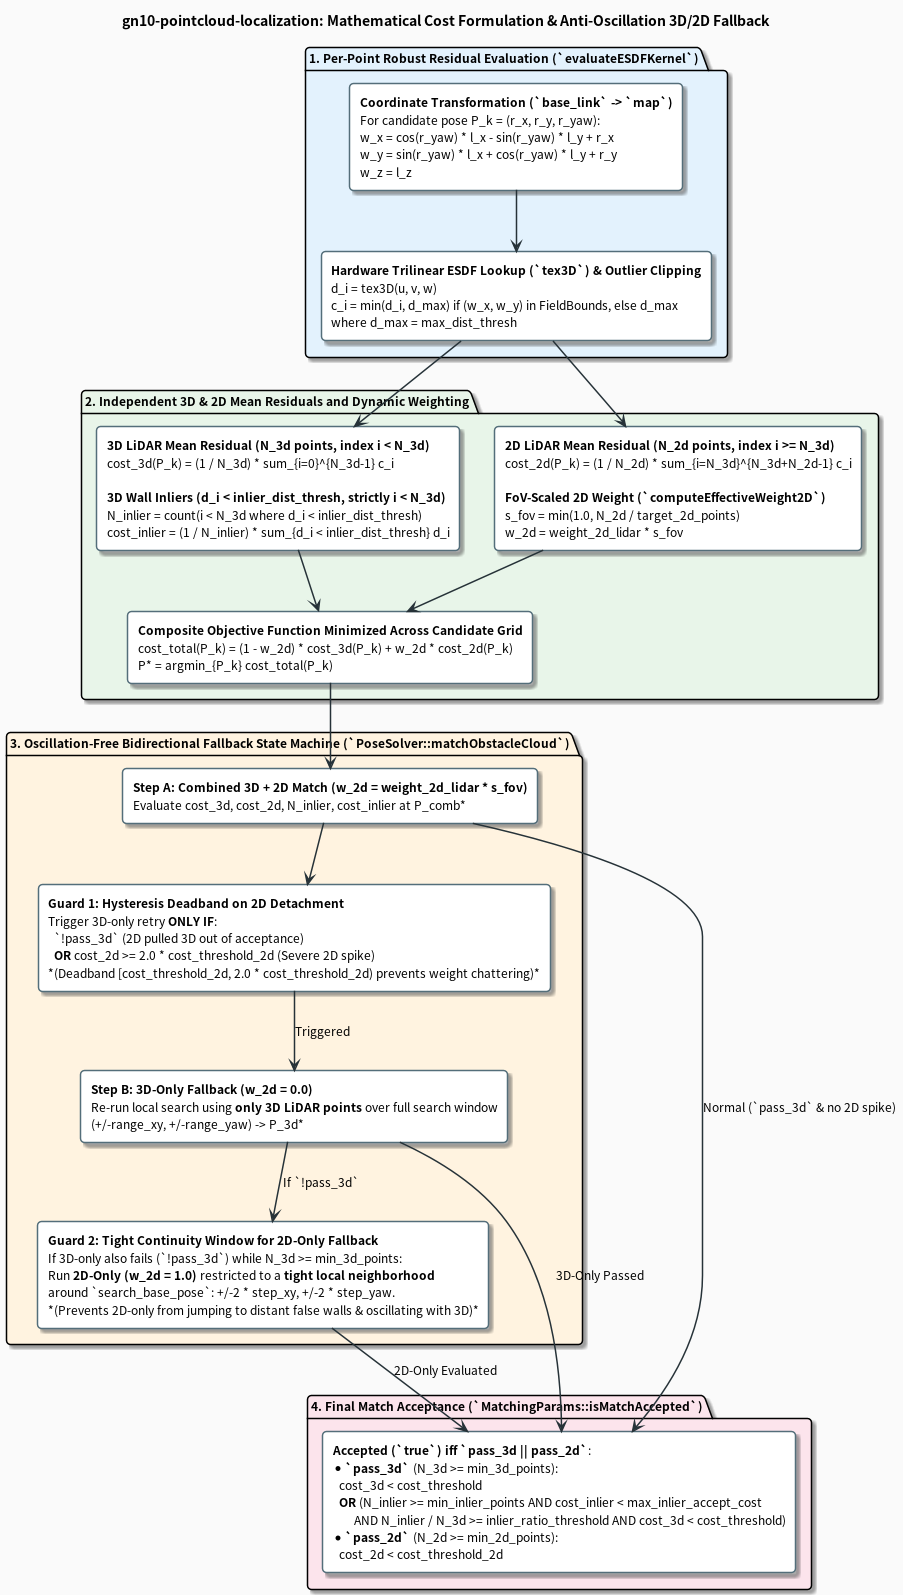
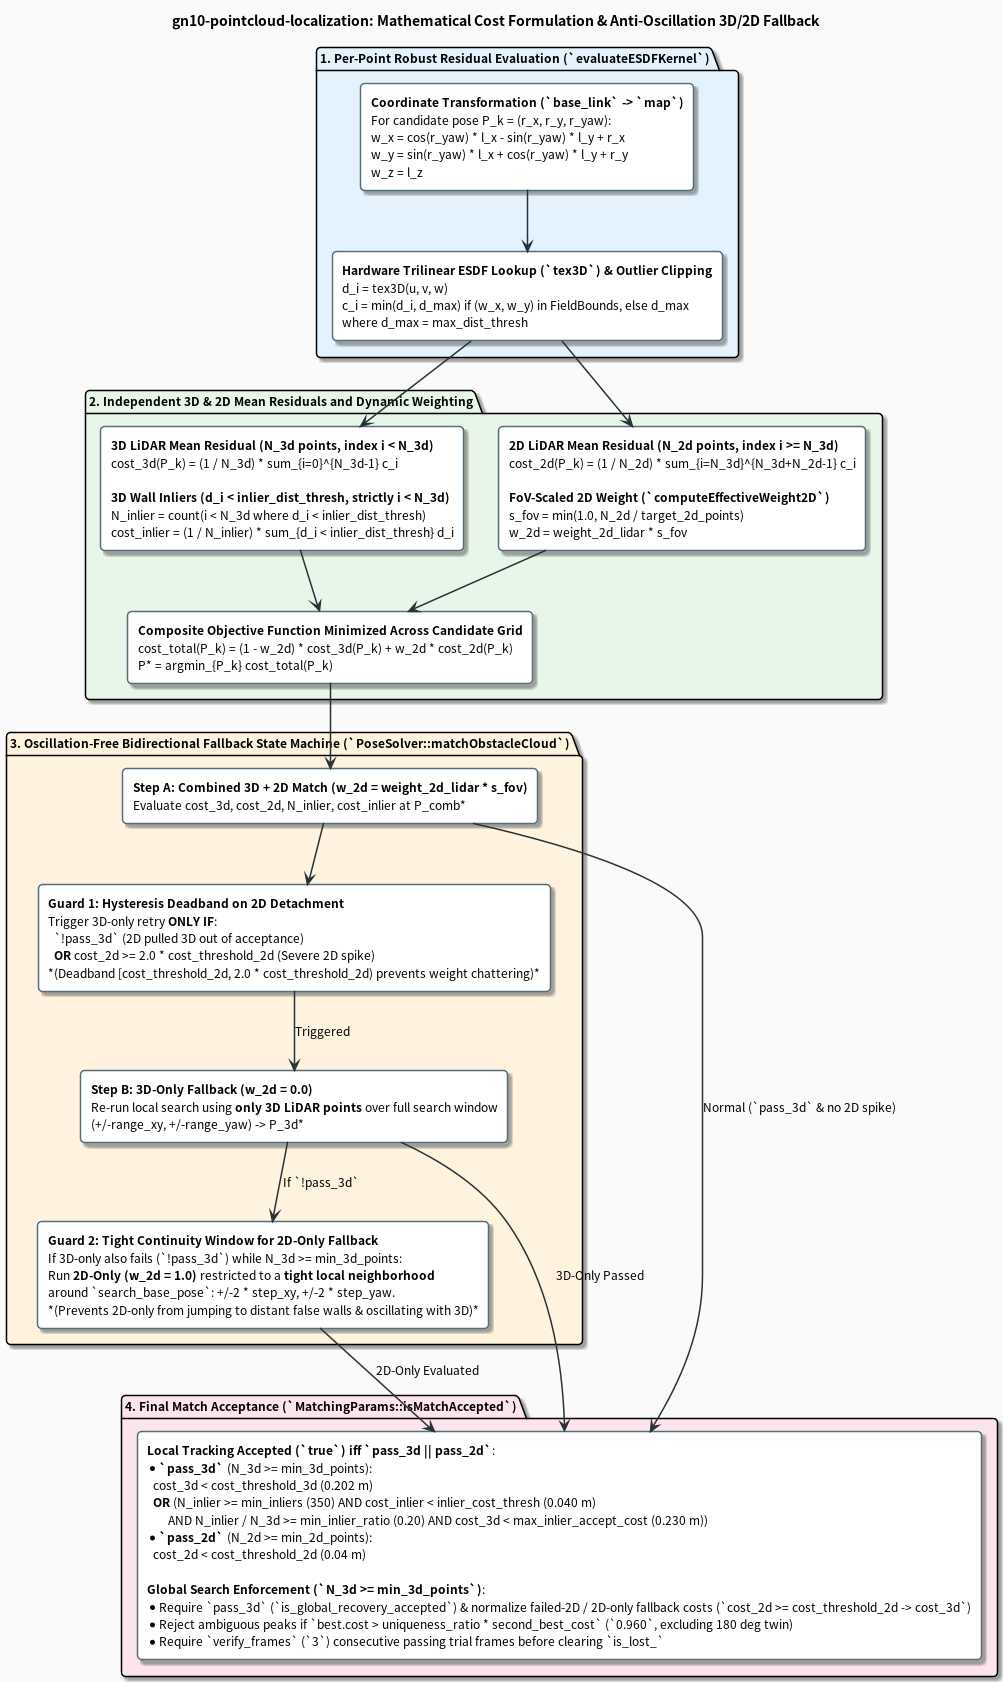
docs(global_search): update README and PlantUML diagrams for robust recovery

diff --git a/README_jp.md b/README_jp.md
@@ -38,6 +38,7 @@ https://github.com/user-attachments/assets/c095bf62-cfac-403c-aa1b-679e0ed4c053
                                                          [TF 配信 (map -> base_link)]                      [TF・推定姿勢の配信を即時停止]
                                                          [/platform_constraint & /dynamic_cloud]           [localization_success = false]
                                                          [localization_success = true]                     [25フレーム連続失敗でGlobalSearch発動]
+                                                                                                           [(IMU Yaw絞り込み + Uniqueness + Trial検証)]
 ```
 
 ## 3. ビルド環境・依存関係
@@ -114,13 +115,13 @@ ros2 launch gn10_pointcloud_localization localization.launch.py use_sim_time:=tr
 | `matching_params.fine_refine` / `levels` | `true` / `2` | 2 段の $5 \times 5 \times 5$ サブボクセル精密探索（`0.05 m` $\to$ `0.002 m`）。 |
 | `matching_params.max_dist_thresh` | `0.25` | マッチング評価時の点ごとの ESDF 残差打ち切り距離 [m]。 |
 | `matching_params.dynamic_dist_thresh` | `0.15` | `/dynamic_cloud` として抽出するマップ表面からの距離閾値 [m]。 |
-| `matching_params.cost_threshold_3d` | `0.23` | 3D LiDAR 独立残差合格しきい値 [m] ($C_{\text{3D}} < 0.23\text{ m}$)。 |
+| `matching_params.cost_threshold_3d` | `0.202` | 3D LiDAR 独立残差合格しきい値 [m] ($C_{\text{3D}} < 0.202\text{ m}$)。 |
 | `matching_params.cost_threshold_2d` | `0.04` | 2D LiDAR 独立残差合格しきい値 [m] ($C_{\text{2D}} < 0.04\text{ m}$、ヒステリシス切り離しは $2\times = 0.08\text{ m}$)。 |
 | `matching_params.inlier_dist_thresh` | `0.08` | マップ壁面から `0.08 m` (8 cm) 以内の点をインライアと判定。 |
-| `matching_params.min_inliers` | `400` | インライア合格判定に必要な最小インライア点数 ($N_{\text{inlier}} \ge 400$)。 |
-| `matching_params.inlier_cost_thresh` | `0.035` | インライア合格判定に必要な平均インライア残差上限 [m] ($C_{\text{inlier}} < 0.035\text{ m}$)。 |
-| `matching_params.min_inlier_ratio` | `0.28` | 3D 障害物点に対する最小インライア比率 ($N_{\text{inlier}} / N_{\text{3D}} \ge 0.28$)。 |
-| `matching_params.max_inlier_accept_cost` | `0.25` | インライア合格判定時の 3D 残差コスト上限ガード [m] ($C_{\text{3D}} < 0.25\text{ m}$)。 |
+| `matching_params.min_inliers` | `350` | インライア合格判定に必要な最小インライア点数 ($N_{\text{inlier}} \ge 350$)。 |
+| `matching_params.inlier_cost_thresh` | `0.040` | インライア合格判定に必要な平均インライア残差上限 [m] ($C_{\text{inlier}} < 0.040\text{ m}$)。 |
+| `matching_params.min_inlier_ratio` | `0.20` | 3D 障害物点に対する最小インライア比率 ($N_{\text{inlier}} / N_{\text{3D}} \ge 0.20$)。 |
+| `matching_params.max_inlier_accept_cost` | `0.230` | インライア合格判定時の 3D 残差コスト上限ガード [m] ($C_{\text{3D}} < 0.230\text{ m}$)。 |
 | `matching_params.weight_2d_lidar` | `0.40` | Combined モード時の 2D LiDAR 独立残差項の基本重み係数 $w_{\text{2D,base}}$。 |
 | `matching_params.min_2d_points` / `target_2d_points` | `30` / `200` | 2D 残差有効化の最小点数と、100% 視野角重み付けとなる基準 2D 点数。 |
 | `matching_params.min_3d_points` | `50` | 最小 3D 障害物点数（これ未満の場合はフル探索窓の 2D 単独モード $w_{\text{2D}} = 1.0$ へ移行）。 |
@@ -128,7 +129,11 @@ ros2 launch gn10_pointcloud_localization localization.launch.py use_sim_time:=tr
 | `velocity_estimation.enable` | `true` | EMA 平滑化（$\alpha = 0.6$）つき並進速度推定と等速外挿の有効化（`window_sec: 0.20`, `min_dt_sec: 0.15`, `max_dt_sec: 0.50`, `max_linear_velocity: 4.0`）。 |
 | `lidar_2d.enable` / `deskew` | `true` / `true` | Lakibeam 2D LiDAR の有効化と、回転・並進歪み補正および 3D 基準時刻への同期補正。 |
 | `lidar_2d.time_offset_sec` | `0.0` | 2D LiDAR タイムスタンプの静的オフセット [s]。 |
+| `global_search.range_yaw_diff` | `3.1415` | 方位事前情報がない場合のグローバル Yaw 全域探索半幅 [rad]。 |
+| `global_search.recovery_yaw_diff` | `0.40` | IMU 方位事前情報（最終マッチ後 `10.0 s` 以内または初期姿勢事前値）が有効な間の絞り込み Yaw 探索半幅 [rad]（初回失敗時は `range_yaw_diff` へ自動フォールバック）。 |
 | `global_search.top_k_candidates` | `4` | グローバル復帰探索時にNMSで抽出して精密化する上位候補数。 |
+| `global_search.uniqueness_ratio` | `0.960` | 曖昧なグローバル一致を棄却する Top-1/Top-2 コスト比上限 (`best_cost <= uniqueness_ratio * second_best_cost`、$180^\circ$ 点対称ツインを除外、`1.0` で無効化)。 |
+| `global_search.verify_frames` | `3` | グローバル復帰を確定して TF/推定姿勢の出力を再開する前に、トライアル状態で要求する連続ローカル検証フレーム数。 |
 | `global_search.lost_count_thresh` | `25` | グローバル全域探索へ移行する連続失敗フレーム数。 |
 
 ## 6. 設計図一覧

diff --git a/README.md b/README.md
@@ -38,6 +38,7 @@ https://github.com/user-attachments/assets/c095bf62-cfac-403c-aa1b-679e0ed4c053
                                                          [Publish TF (map -> base_link)]                       [Halt TF & Pose Output Immediately]
                                                          [/platform_constraint & /dynamic_cloud]                [localization_success = false]
                                                          [localization_success = true]                          [Trigger GlobalSearch after 25 frames]
+                                                                                                                [(IMU Yaw Window + Uniqueness + Trial Verify)]
 ```
 
 ## 3. Build Environment & Dependencies
@@ -114,13 +115,13 @@ Common parameters are defined in [`config/common_params.yaml`](./config/common_p
 | `matching_params.fine_refine` / `levels` | `true` / `2` | 2-stage $5 \times 5 \times 5$ sub-voxel refinement (`0.05 m` $\to$ `0.002 m`). |
 | `matching_params.max_dist_thresh` | `0.25` | Per-point Huber/L1 residual distance clipping ceiling [m]. |
 | `matching_params.dynamic_dist_thresh` | `0.15` | Distance threshold [m] above which points are extracted as `/dynamic_cloud`. |
-| `matching_params.cost_threshold_3d` | `0.23` | Independent 3D LiDAR mean residual acceptance threshold [m] ($C_{\text{3D}} < 0.23\text{ m}$). |
+| `matching_params.cost_threshold_3d` | `0.202` | Independent 3D LiDAR mean residual acceptance threshold [m] ($C_{\text{3D}} < 0.202\text{ m}$). |
 | `matching_params.cost_threshold_2d` | `0.04` | Independent 2D LiDAR mean residual acceptance threshold [m] ($C_{\text{2D}} < 0.04\text{ m}$, hysteresis detachment at $2\times = 0.08\text{ m}$). |
 | `matching_params.inlier_dist_thresh` | `0.08` | Distance threshold [m] to classify an obstacle point as a wall inlier. |
-| `matching_params.min_inliers` | `400` | Minimum inlier point count for inlier-based acceptance ($N_{\text{inlier}} \ge 400$). |
-| `matching_params.inlier_cost_thresh` | `0.035` | Maximum mean residual of inlier points for inlier acceptance [m] ($C_{\text{inlier}} < 0.035\text{ m}$). |
-| `matching_params.min_inlier_ratio` | `0.28` | Minimum inlier ratio against 3D obstacle points ($N_{\text{inlier}} / N_{\text{3D}} \ge 0.28$). |
-| `matching_params.max_inlier_accept_cost` | `0.25` | 3D residual cost upper bound guard for inlier acceptance [m] ($C_{\text{3D}} < 0.25\text{ m}$). |
+| `matching_params.min_inliers` | `350` | Minimum inlier point count for inlier-based acceptance ($N_{\text{inlier}} \ge 350$). |
+| `matching_params.inlier_cost_thresh` | `0.040` | Maximum mean residual of inlier points for inlier acceptance [m] ($C_{\text{inlier}} < 0.040\text{ m}$). |
+| `matching_params.min_inlier_ratio` | `0.20` | Minimum inlier ratio against 3D obstacle points ($N_{\text{inlier}} / N_{\text{3D}} \ge 0.20$). |
+| `matching_params.max_inlier_accept_cost` | `0.230` | 3D residual cost upper bound guard for inlier acceptance [m] ($C_{\text{3D}} < 0.230\text{ m}$). |
 | `matching_params.weight_2d_lidar` | `0.40` | Base weight $w_{\text{2D,base}}$ of 2D LiDAR residual term in Combined mode. |
 | `matching_params.min_2d_points` / `target_2d_points` | `30` / `200` | Minimum 2D point threshold and reference point count for 100% FoV scaling. |
 | `matching_params.min_3d_points` | `50` | Minimum 3D obstacle points (falls back to full-window 2D-only mode $w_{\text{2D}} = 1.0$ if fewer). |
@@ -128,7 +129,11 @@ Common parameters are defined in [`config/common_params.yaml`](./config/common_p
 | `velocity_estimation.enable` | `true` | Enables linear velocity estimation with EMA smoothing ($\alpha = 0.6$) and constant-velocity extrapolation (`window_sec: 0.20`, `min_dt_sec: 0.15`, `max_dt_sec: 0.50`, `max_linear_velocity: 4.0`). |
 | `lidar_2d.enable` / `deskew` | `true` / `true` | Enables Lakibeam 2D LiDAR, rotational/translational deskew, and time synchronization to 3D reference timestamp. |
 | `lidar_2d.time_offset_sec` | `0.0` | Static timestamp offset [s] added to 2D LiDAR scan timestamps. |
+| `global_search.range_yaw_diff` | `3.1415` | Full yaw search half-range [rad] when no valid heading prior is available. |
+| `global_search.recovery_yaw_diff` | `0.40` | Restricted yaw search half-range [rad] when IMU heading prior is valid (`< 10.0 s` since last match or initial heading prior; automatically falls back to `range_yaw_diff` on initial failure). |
 | `global_search.top_k_candidates` | `4` | Number of Top-K spatially distinct local minima refined via NMS during global recovery. |
+| `global_search.uniqueness_ratio` | `0.960` | Top-1/Top-2 cost margin threshold (`best_cost <= uniqueness_ratio * second_best_cost`, excluding $180^\circ$ antipodal symmetry twin) to reject ambiguous global matches (`1.0` disables). |
+| `global_search.verify_frames` | `3` | Consecutive local verification frames required in trial state before committing global recovery and resuming TF/pose output. |
 | `global_search.lost_count_thresh` | `25` | Consecutive failed frame threshold before triggering full-field global search. |
 
 ## 6. Diagrams
